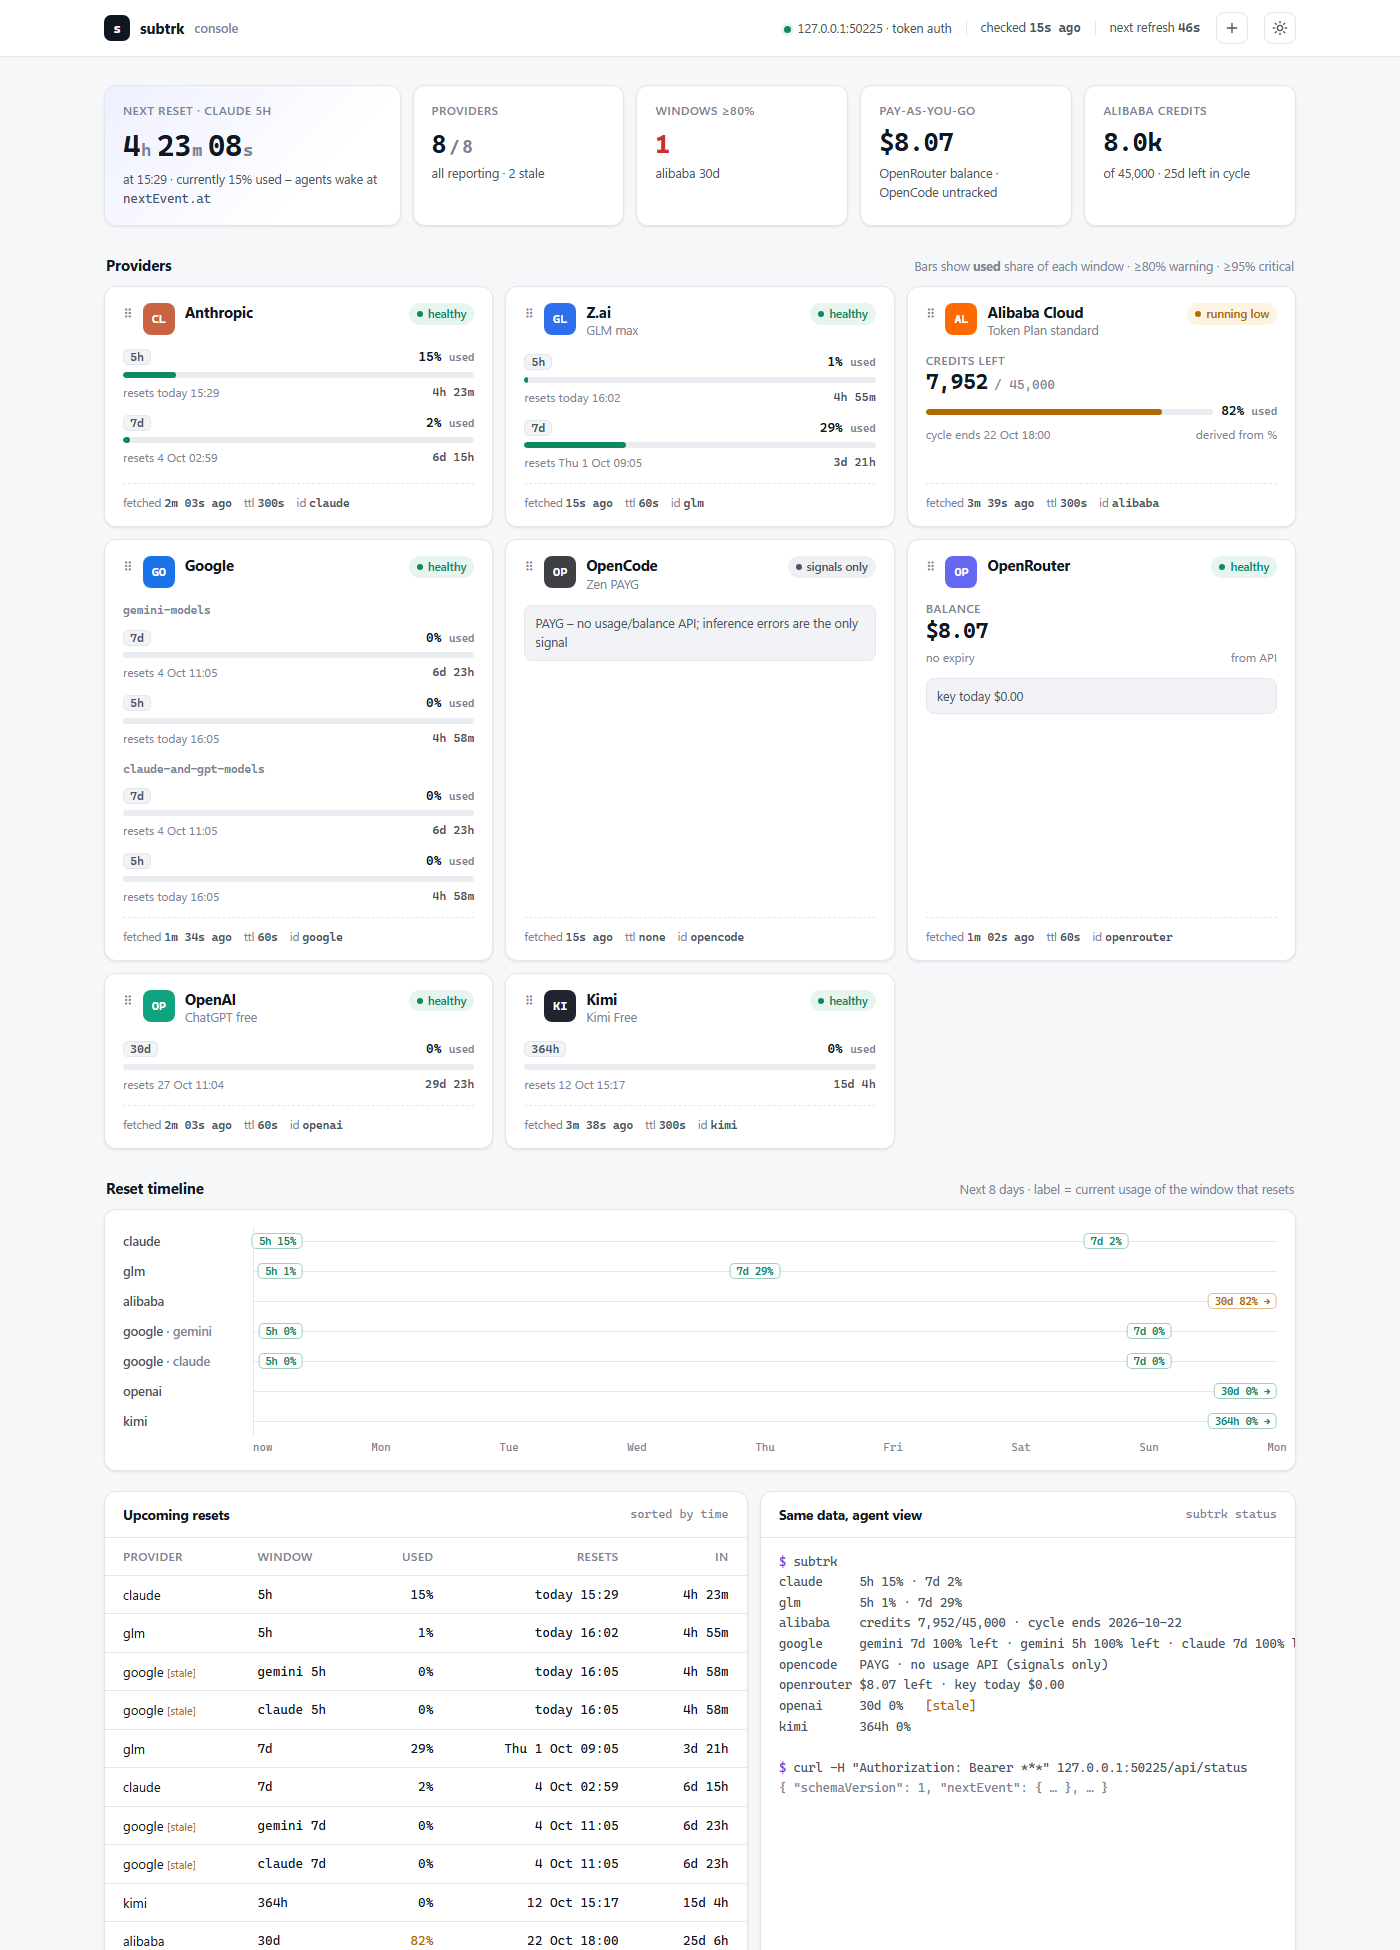
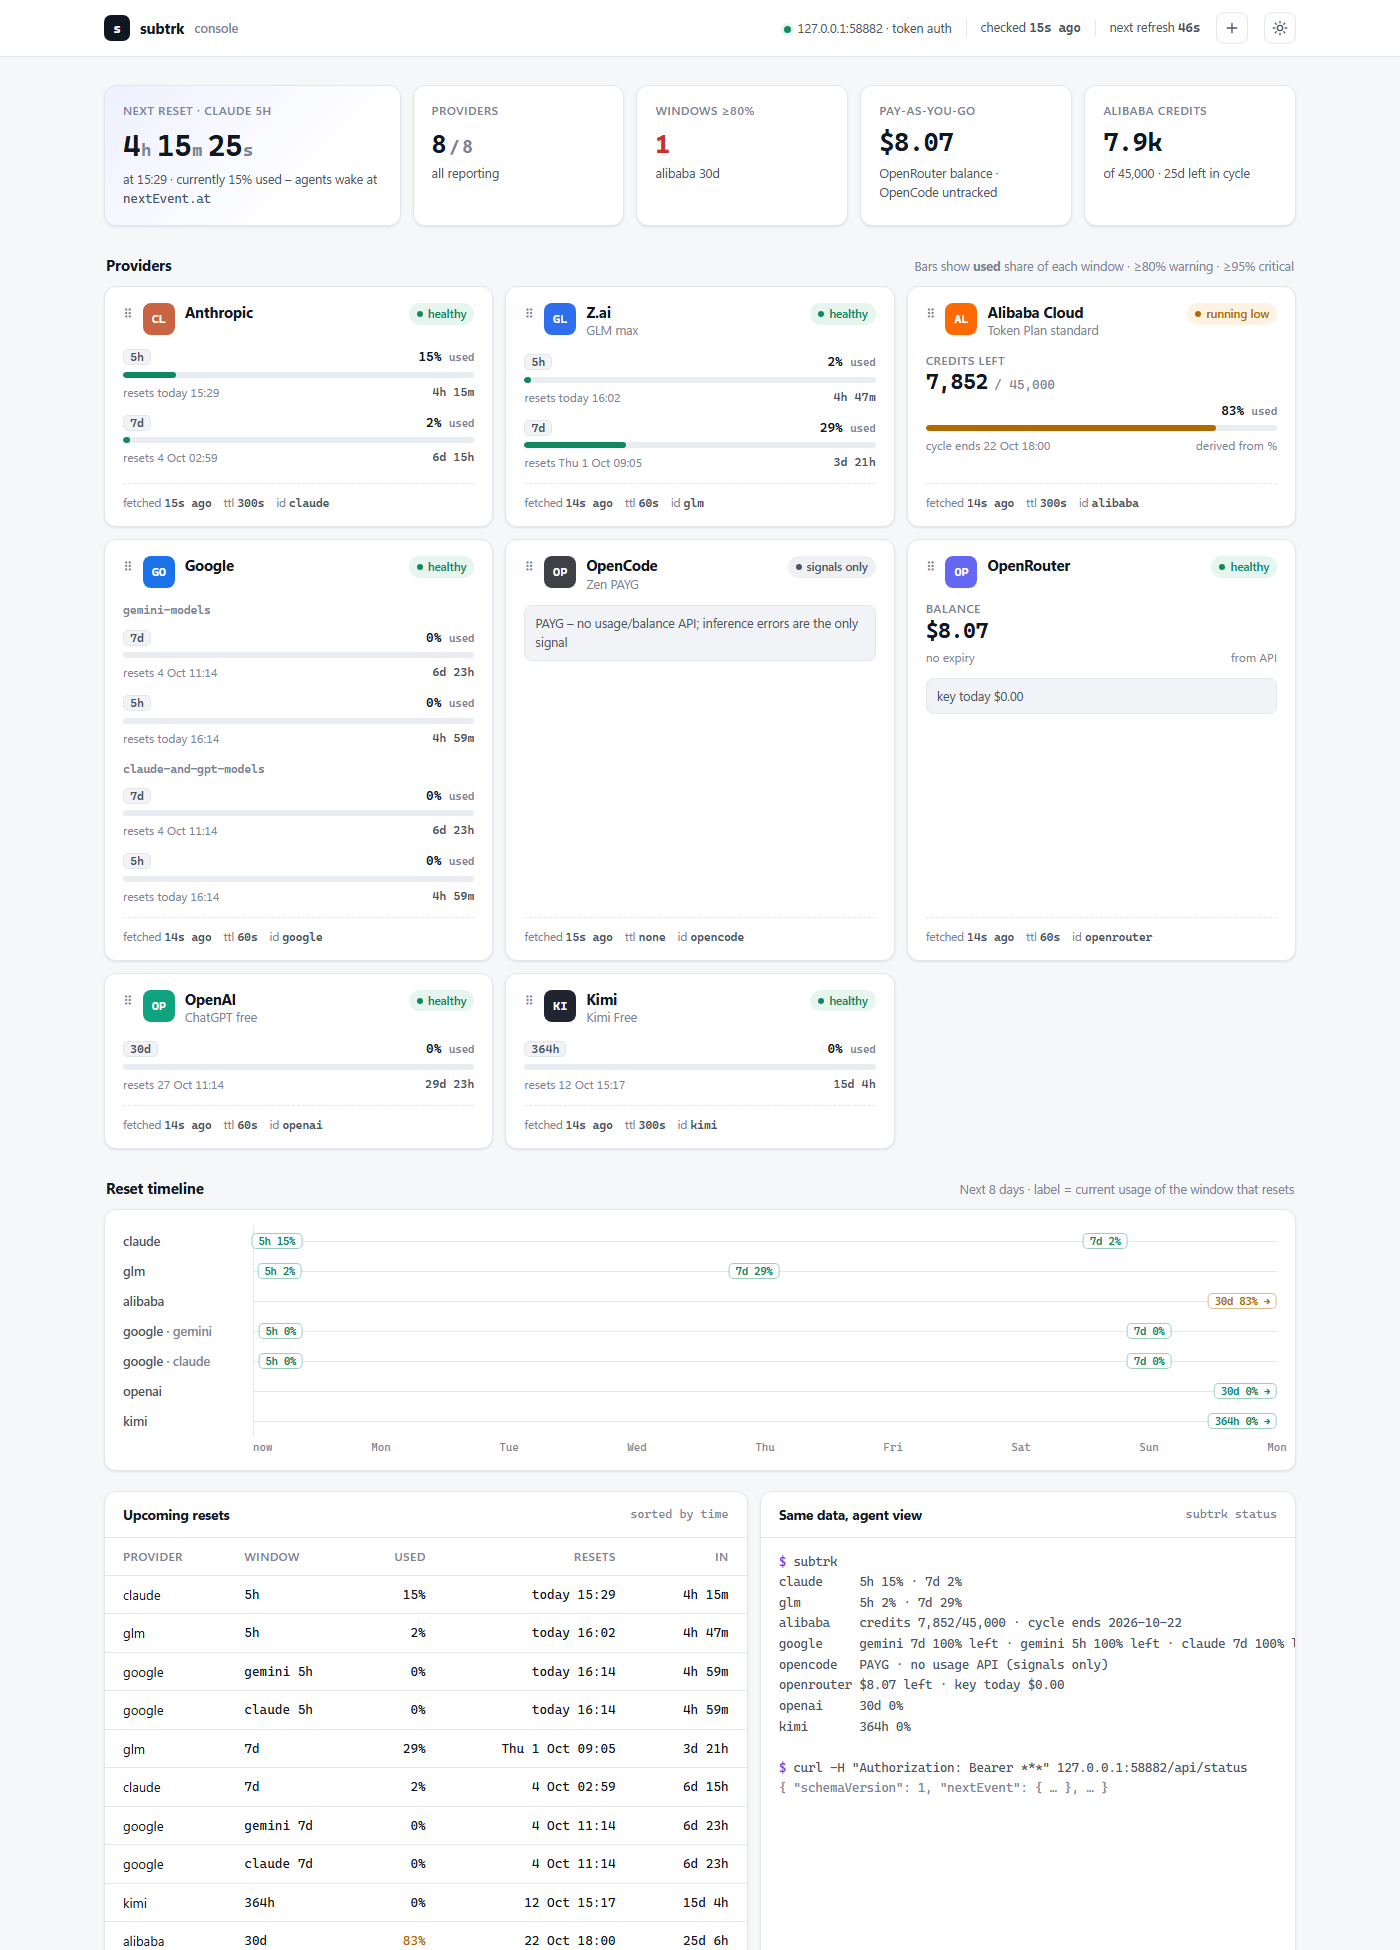
console: credits percentage above the bar, matching the window cards (#16)

diff --git a/src/console.html b/src/console.html
@@ -358,7 +358,7 @@ function providerHTML(p) {
     const c = p.credits, pct = c.total != null ? clampPct((1 - Number(c.remaining) / Number(c.total)) * 100) : null;
     body += `<div><div class="label">${c.unit === "usd" ? "Balance" : "Credits left"}</div>
       <div class="credits"><span class="big">${money(c.remaining, c.unit)}</span>${c.total != null ? `<span class="of">/ ${money(c.total, c.unit)}</span>` : ""}</div>
-      ${pct != null ? `<div class="wtop" style="margin-top:6px"><div class="track" style="flex:1"><div class="fill ${level(pct)}" style="width:${pct}%"></div></div><span class="wpct">${pct.toFixed(0)}% <small>used</small></span></div>` : ""}
+      ${pct != null ? `<div class="wtop" style="margin-top:6px"><span class="wpct">${pct.toFixed(0)}% <small>used</small></span></div><div class="track" style="margin-top:5px" role="meter" aria-valuemin="0" aria-valuemax="100" aria-valuenow="${pct.toFixed(0)}" aria-label="credits used"><div class="fill ${level(pct)}" style="width:${pct}%"></div></div>` : ""}
       <div class="wreset" style="margin-top:5px"><span>${c.cycleEndsAt ? `cycle ends ${when(c.cycleEndsAt)}` : "no expiry"}</span><span>${c.source === "derived" ? "derived from %" : "from API"}</span></div></div>`;
   }
   if (ws.length && !p.credits) {
